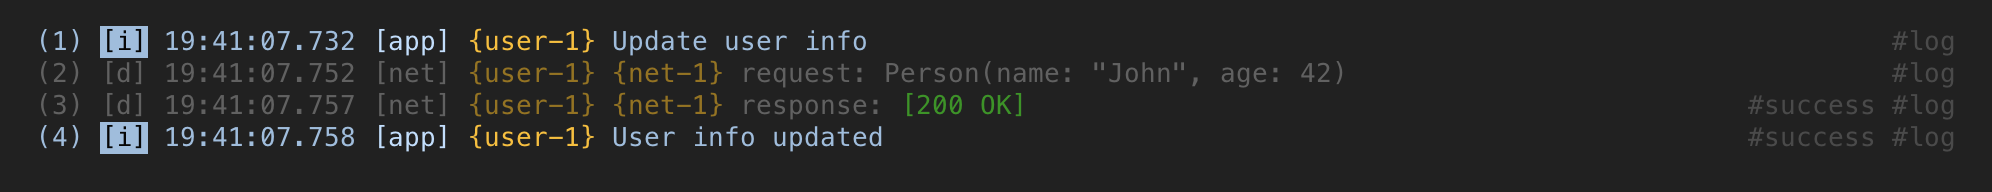
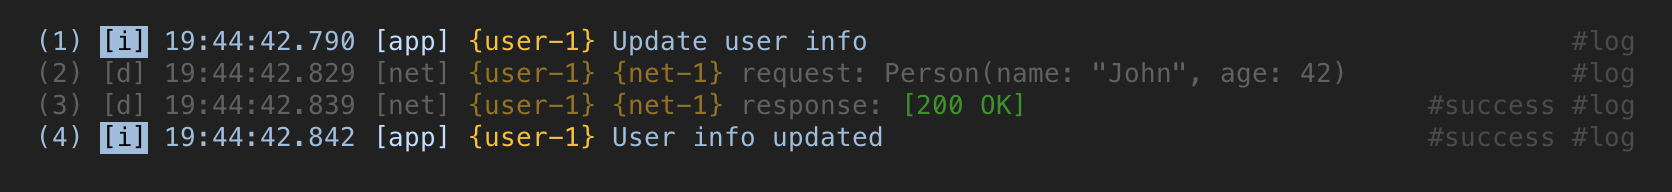
update README

diff --git a/example/bin/readme_examples/active.dart b/example/bin/readme_examples/active.dart
@@ -4,21 +4,20 @@ import 'package:team_logger/team_logger.dart';
 
 void main() {
   print('----- Inactive theme -----');
-  initLog(inactiveTheme: LogMainTheme.defaultInactiveTheme, maxLength: 120);
+  initLog(inactiveTheme: LogMainTheme.defaultInactiveTheme);
   printLogs();
 
   print('----- By level -----');
   initLog(
     inactiveTheme: LogMainTheme.defaultInactiveTheme,
     activeLevel: LogLevels.info,
-    maxLength: 120,
   );
   printLogs();
 
   print('----- By logger -----');
   initLog(
     inactiveTheme: LogMainTheme.defaultInactiveTheme,
-    maxLength: 120,
+
     activeLoggers: {'net'},
   );
   printLogs();
@@ -26,7 +25,7 @@ void main() {
   print('----- By trace -----');
   initLog(
     inactiveTheme: LogMainTheme.defaultInactiveTheme,
-    maxLength: 120,
+
     activeTraceGroups: {'user', 'net'},
   );
   printLogs();
@@ -34,7 +33,7 @@ void main() {
   print('----- By tag -----');
   initLog(
     inactiveTheme: LogMainTheme.defaultInactiveTheme,
-    maxLength: 120,
+
     activeTags: {'success'},
   );
   printLogs();
@@ -42,7 +41,7 @@ void main() {
   print('----- By callback -----');
   initLog(
     inactiveTheme: LogMainTheme.defaultInactiveTheme,
-    maxLength: 120,
+
     isLogActive: (log) => log.hasData,
   );
   printLogs();
